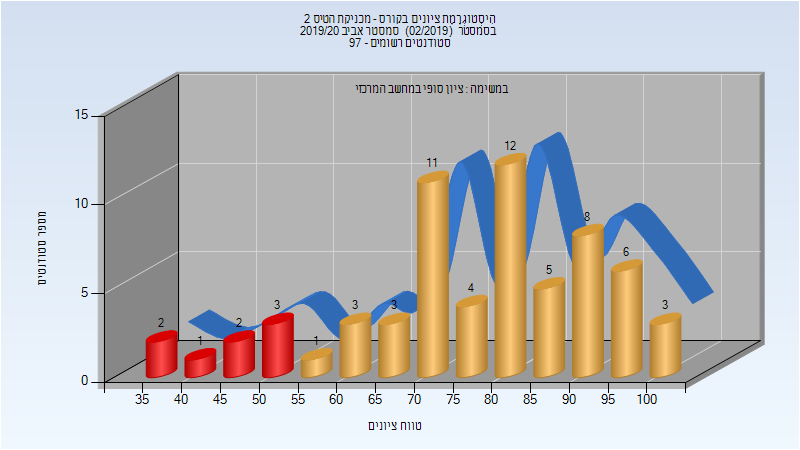
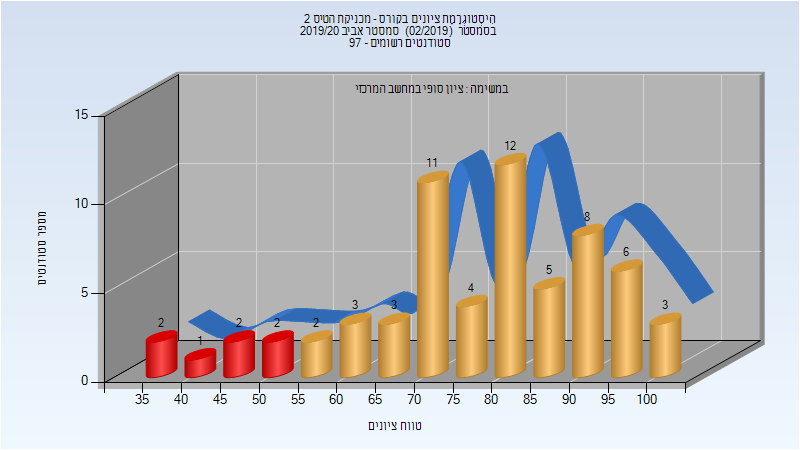
Deploy michael-maltsev/technion-histograms to github.com/michael-maltsev/technion-histograms.git:gh-pages

Changed region(s): [[0.3125, 0.6533, 0.5, 0.8089]]

diff --git a/084221/index.html b/084221/index.html
@@ -458,11 +458,11 @@
 <tbody>
 <tr>
 <td>64</td>
-<td>56/8</td>
-<td>88</td>
+<td>57/7</td>
+<td>89</td>
 <td>36</td>
 <td>100</td>
-<td>77.531</td>
+<td>77.547</td>
 <td>80</td>
 </tr>
 </tbody>

diff --git a/084221/README.md b/084221/README.md
@@ -141,5 +141,5 @@
 
 | סטודנטים | עברו/נכשלו | אחוז עוברים | ציון מינימלי | ציון מקסימלי | ממוצע | חציון |
 | ---- | ---- | ---- | ---- | ---- | ---- | ---- |
-| 64 | 56/8 | 88 | 36 | 100 | 77.531 | 80 |
+| 64 | 57/7 | 89 | 36 | 100 | 77.547 | 80 |
 
